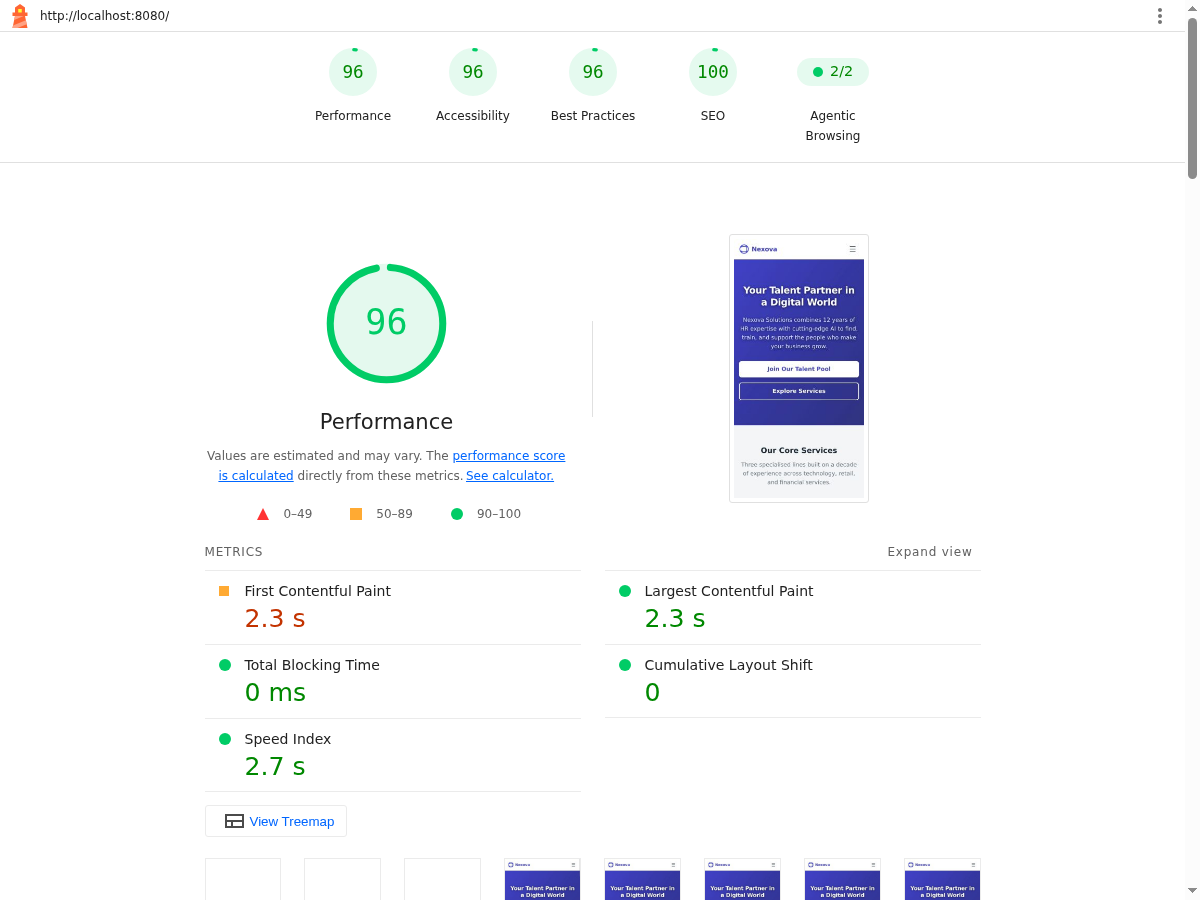
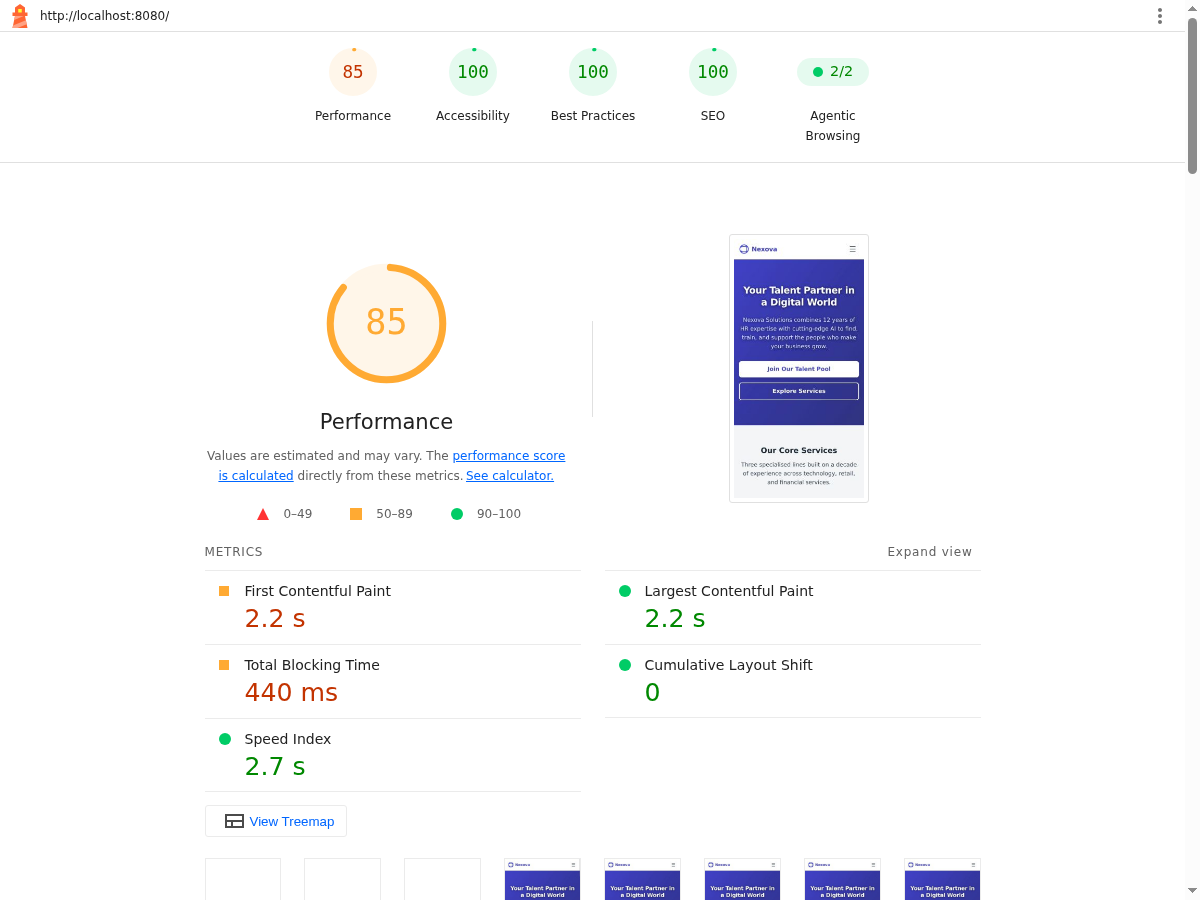
Fix color contrast issues and console error — Accessibility 100, Best Practices 100

diff --git a/uis/website/index.html b/uis/website/index.html
@@ -182,7 +182,7 @@
       <div class="max-w-7xl mx-auto px-4 sm:px-6 lg:px-8">
         <div class="text-center mb-12">
           <h2 id="services-heading" class="text-2xl sm:text-3xl md:text-4xl font-bold text-gray-800">Our Core Services</h2>
-          <p class="mt-4 text-lg text-gray-500 max-w-2xl mx-auto">Three specialised lines built on a decade of experience across technology, retail, and financial services.</p>
+          <p class="mt-4 text-lg text-gray-700 max-w-2xl mx-auto">Three specialised lines built on a decade of experience across technology, retail, and financial services.</p>
         </div>
         <div class="grid gap-8 sm:grid-cols-2 lg:grid-cols-3">
 
@@ -237,7 +237,7 @@
       <div class="max-w-7xl mx-auto px-4 sm:px-6 lg:px-8">
         <div class="text-center mb-12">
           <h2 id="benefits-heading" class="text-2xl sm:text-3xl md:text-4xl font-bold text-gray-800">Why Choose Nexova</h2>
-          <p class="mt-4 text-lg text-gray-500 max-w-2xl mx-auto">We bring together deep HR expertise and intelligent technology to deliver results that stand out.</p>
+          <p class="mt-4 text-lg text-gray-700 max-w-2xl mx-auto">We bring together deep HR expertise and intelligent technology to deliver results that stand out.</p>
         </div>
         <div class="grid gap-6 sm:grid-cols-2 lg:grid-cols-4">
 
@@ -282,9 +282,9 @@
               Our clients — mid-sized technology, retail, and financial services companies — choose us because we deliver the right talent, the right training, and the right support. And we do it with the intelligence that only twelve years of hands-on experience can build.
             </p>
             <div class="mt-6 grid grid-cols-3 gap-4 text-center">
-              <div><span class="block text-3xl font-bold text-indigo-600">120</span><span class="block text-sm text-gray-500">Employees</span></div>
-              <div><span class="block text-3xl font-bold text-indigo-600">$8M</span><span class="block text-sm text-gray-500">Revenue</span></div>
-              <div><span class="block text-3xl font-bold text-indigo-600">12+</span><span class="block text-sm text-gray-500">Years</span></div>
+              <div><span class="block text-3xl font-bold text-indigo-600">120</span><span class="block text-sm text-gray-700">Employees</span></div>
+              <div><span class="block text-3xl font-bold text-indigo-600">$8M</span><span class="block text-sm text-gray-700">Revenue</span></div>
+              <div><span class="block text-3xl font-bold text-indigo-600">12+</span><span class="block text-sm text-gray-700">Years</span></div>
             </div>
           </div>
           <div class="lg:w-1/2 mt-10 lg:mt-0 bg-indigo-100 rounded-2xl p-8 lg:p-12">
@@ -309,7 +309,7 @@
       <div class="max-w-7xl mx-auto px-4 sm:px-6 lg:px-8">
         <div class="text-center mb-12">
           <h2 id="how-heading" class="text-2xl sm:text-3xl md:text-4xl font-bold text-gray-800">How It Works</h2>
-          <p class="mt-4 text-lg text-gray-500 max-w-2xl mx-auto">From first contact to long-term partnership — our proven four-step process.</p>
+          <p class="mt-4 text-lg text-gray-700 max-w-2xl mx-auto">From first contact to long-term partnership — our proven four-step process.</p>
         </div>
         <div class="grid gap-6 sm:grid-cols-2 lg:grid-cols-4">
           <div class="bg-white rounded-xl p-6 text-center shadow-sm">
@@ -339,7 +339,7 @@
     <!-- ====== TRUST BAR ====== -->
     <section class="bg-gray-200 py-12 sm:py-16" aria-label="Client trust indicators">
       <div class="max-w-7xl mx-auto px-4 sm:px-6 lg:px-8 text-center">
-        <p class="text-sm uppercase tracking-wider text-gray-400 font-semibold">Trusted by mid-sized companies in</p>
+        <p class="text-sm uppercase tracking-wider text-gray-700 font-semibold">Trusted by mid-sized companies in</p>
         <div class="flex flex-wrap justify-center gap-6 mt-6 text-gray-500 text-lg font-semibold">
           <span class="bg-white px-5 py-2 rounded-full shadow-sm">Technology</span>
           <span class="bg-white px-5 py-2 rounded-full shadow-sm">Retail</span>
@@ -354,7 +354,7 @@
     <section class="bg-indigo-600 text-white py-14 sm:py-18" aria-label="Call to action">
       <div class="max-w-4xl mx-auto px-4 sm:px-6 lg:px-8 text-center">
         <h2 class="text-2xl sm:text-3xl md:text-4xl font-bold">Ready to Transform Your Talent Strategy?</h2>
-        <p class="mt-4 text-lg text-indigo-200 max-w-2xl mx-auto">Join hundreds of professionals who have accelerated their careers through Nexova.</p>
+        <p class="mt-4 text-lg text-white max-w-2xl mx-auto">Join hundreds of professionals who have accelerated their careers through Nexova.</p>
         <a href="application.html" class="mt-6 inline-block bg-white text-indigo-700 px-8 py-3 rounded-lg font-bold text-lg shadow-lg hover:bg-gray-100 transition-colors focus:ring-2 focus:ring-white focus:outline-none">
           Submit Your Application
         </a>
@@ -409,7 +409,7 @@
         </div>
 
       </div>
-      <div class="border-t border-gray-700 mt-8 pt-6 text-center text-sm text-gray-500">
+      <div class="border-t border-gray-700 mt-8 pt-6 text-center text-sm text-gray-300">
         &copy; 2026 Nexova Solutions. All rights reserved.
       </div>
     </div>
